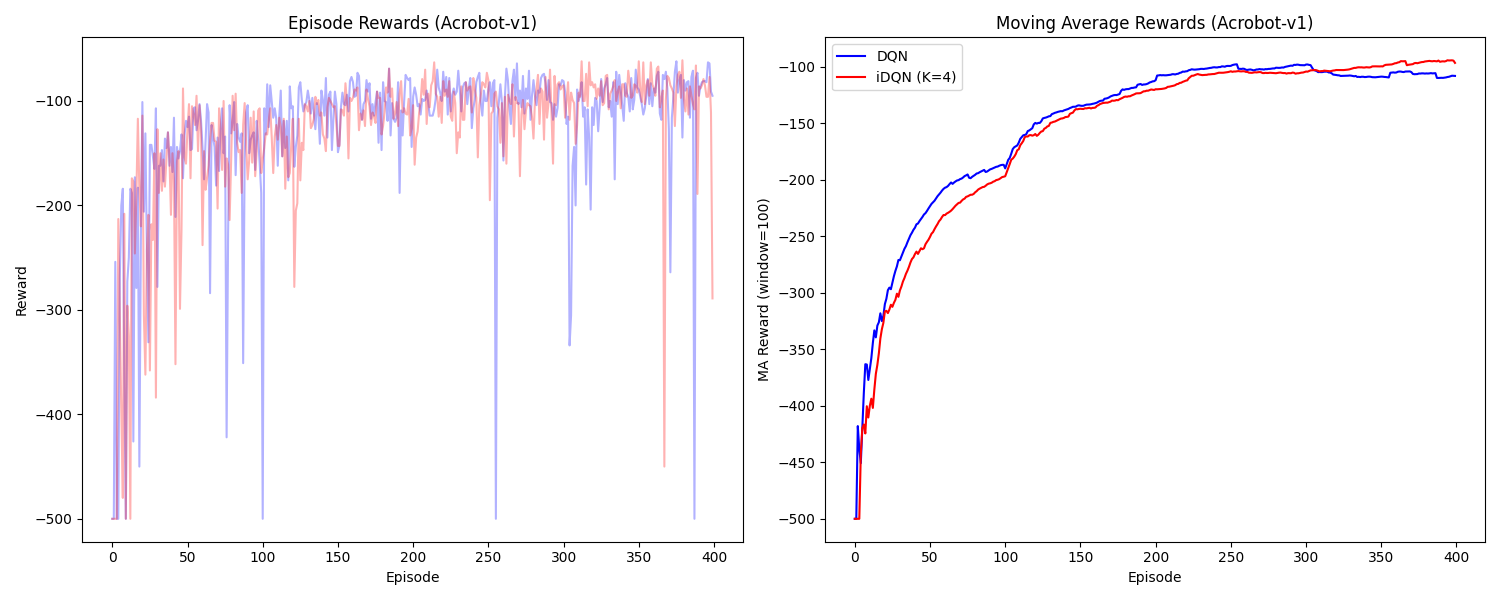
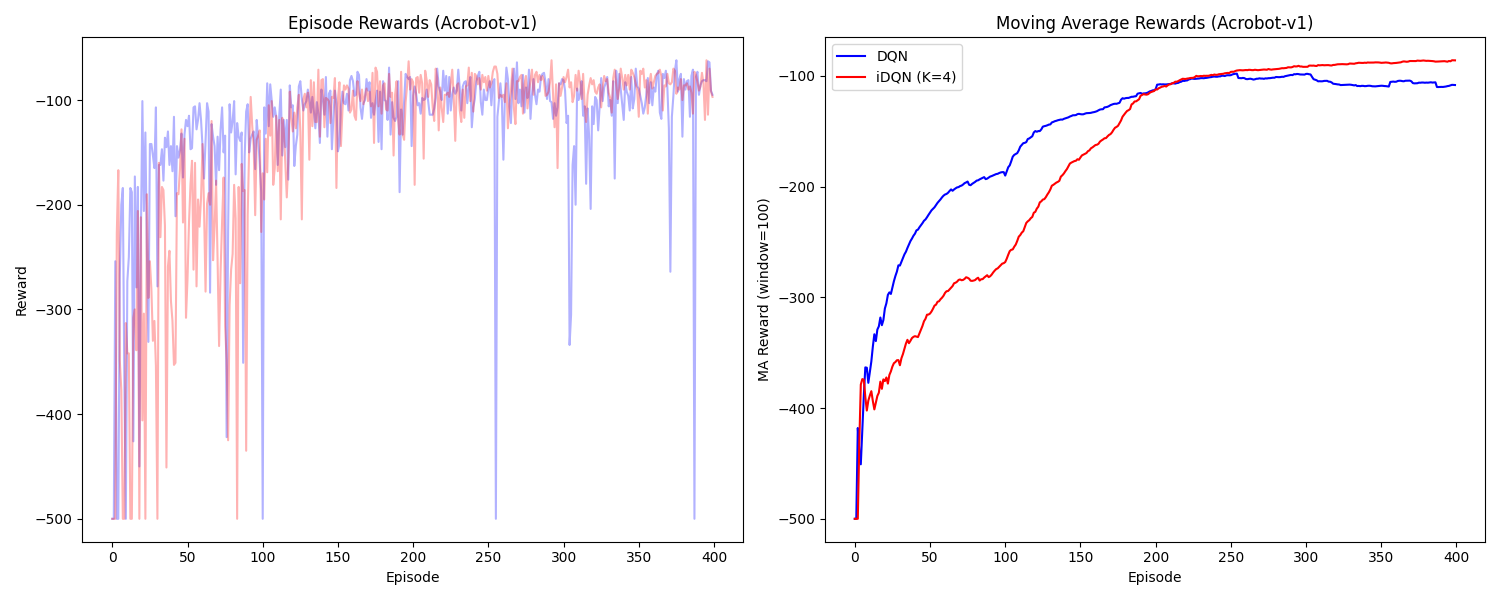
fix bug: the online networks needs to be shifted when the target network are shifted

diff --git a/implementation.py b/implementation.py
@@ -230,10 +230,13 @@ class iDQN(DQN):
         self.steps_done += 1
         
         # Shift window every T steps
-        # \bar{Q}_k <- Q_{k + 1}, i.e., L_TN[k] <- L_ON[k]
+        # \bar{Q}_{k - 1} <- Q_k, i.e., L_TN[k] <- L_ON[k]
+        # AND 
+        # Q_k <- Q_{k + 1}, i.e., L_ON[k] <- L_ON[k + 1]
         if self.steps_done % self.T == 0:
             for k in range(self.K - 1):
                 self.target_networks[k].load_state_dict(self.online_networks[k].state_dict())
+                self.online_networks[k].load_state_dict(self.online_networks[k + 1].state_dict())
         
         # Update target networks to their respective online networks every D steps
         # \bar{Q}_k <- Q_k, i.e., L_TN[k] <- L_ON[k-1]

diff --git a/main.py b/main.py
@@ -23,7 +23,7 @@ def main():
     
     # iDQN specific settings
     parser.add_argument('--K', type=int, default=4, help='Number of consecutive Bellman updates for iDQN')
-    parser.add_argument('--D', type=int, default=10, help='Target update frequency for iDQN')
+    parser.add_argument('--D', type=int, default=5, help='Target update frequency for iDQN')
     parser.add_argument('--T', type=int, default=200, help='Window shift frequency for iDQN')
     
     # Evaluation settings
